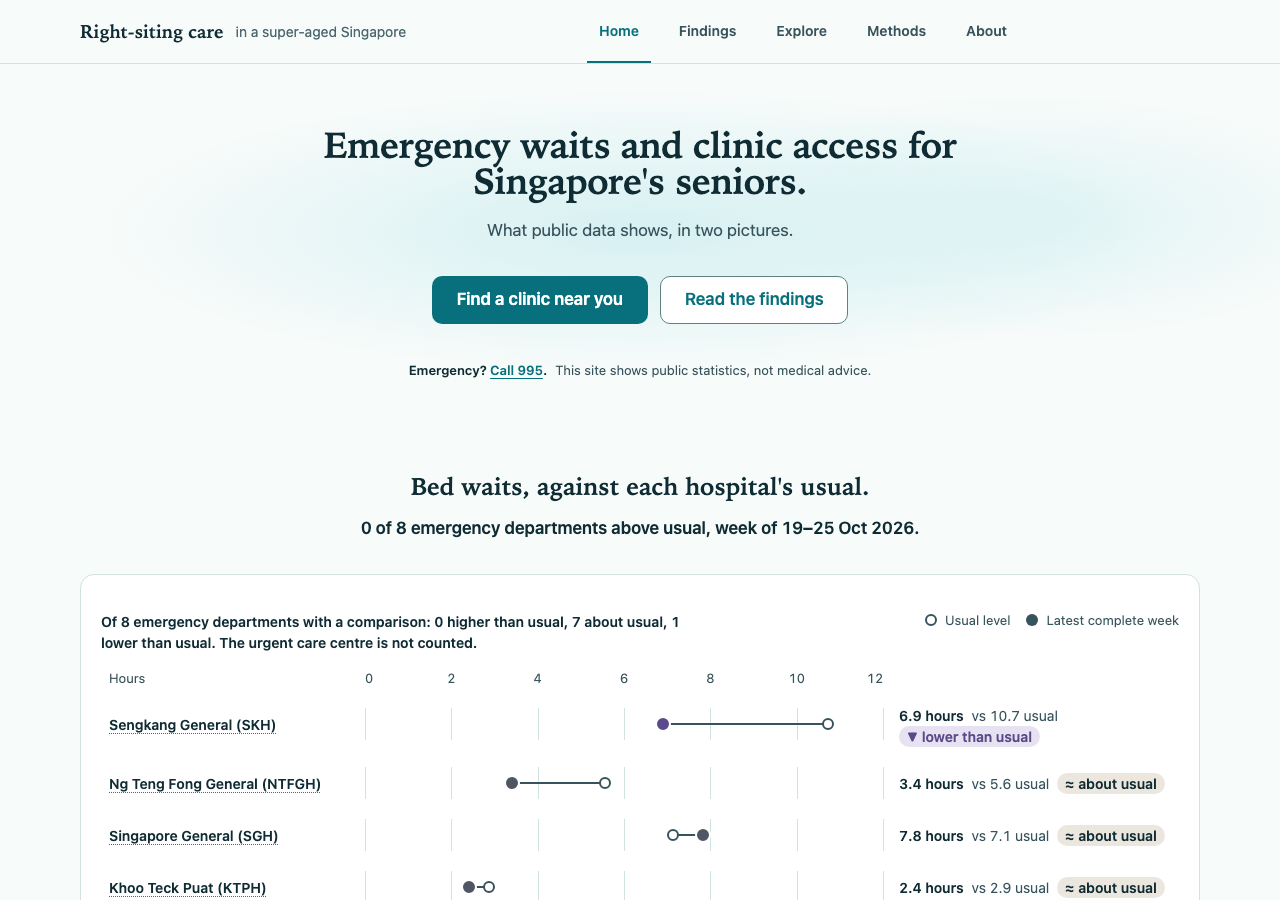
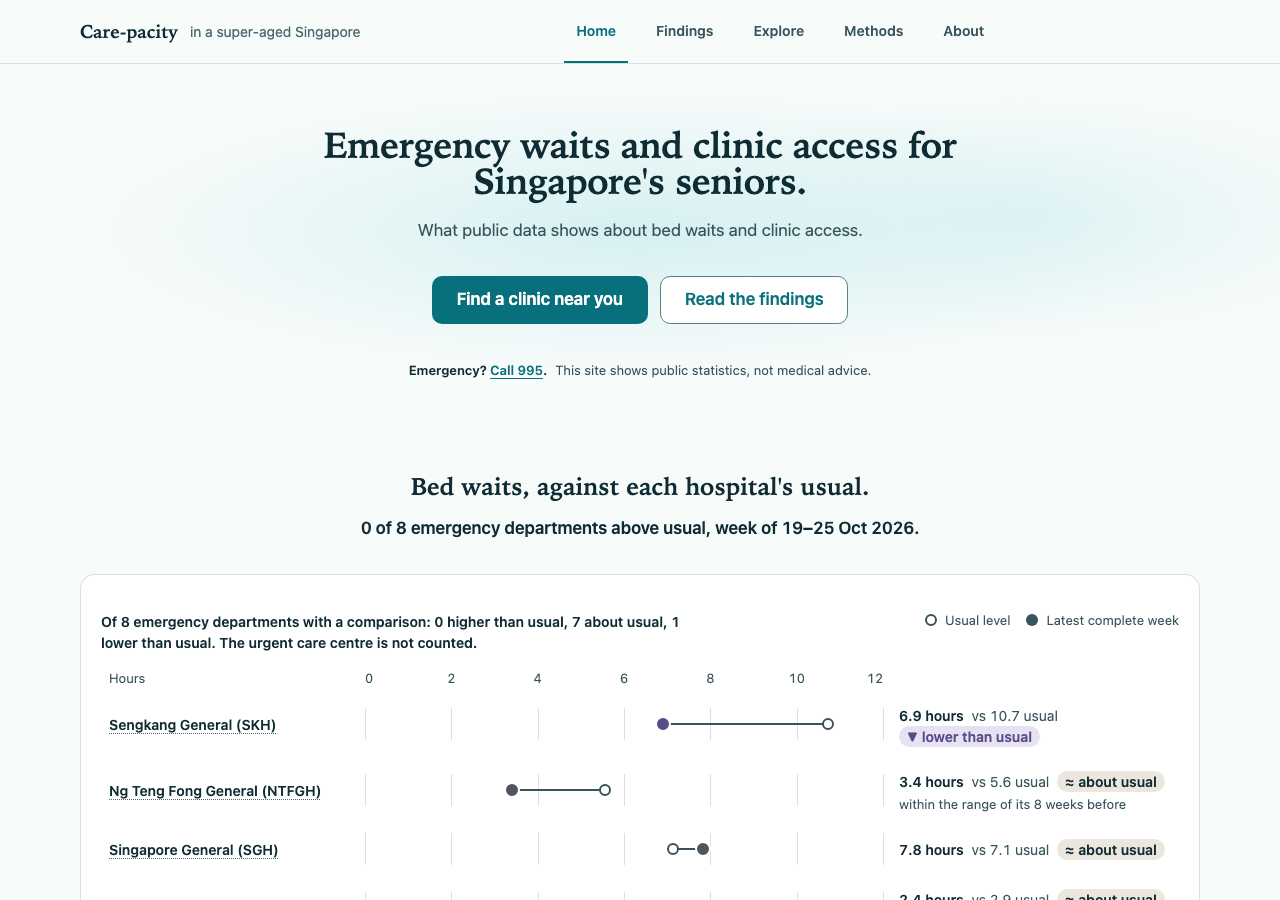
Rename the site to Care-pacity
The visible name only: the repo (sg-care-capacity), the live URLs, the
Render service and the package names are unchanged, so every existing link
keeps working.

- lib/site.ts: name 'Care-pacity', tagline 'in a super-aged Singapore', full
  title 'Care-pacity: emergency waits and clinic access in a super-aged
  Singapore' (header, browser title, share card, summary heading).
- 'Name means <definition>' becomes 'Care-pacity looks at right-siting:
  <definition>' (Findings, Summary): right-siting stays the concept the
  project studies, with its glossary entry.
- Share image top line, API description (openapi.json regenerated), README,
  web/README, CLAUDE.md, audit and case-study titles, README screenshot.
- Tests that pinned the old name updated (site.test, e2e shell, frame,
  summary, findings).

diff --git a/web/app/opengraph-image.tsx b/web/app/opengraph-image.tsx
@@ -21,7 +21,7 @@ export default function OpengraphImage() {
                     padding: "72px 80px", backgroundColor: colors.page, color: colors.ink, fontFamily: "sans-serif",
                     // The site's hero light: one soft glow behind the claim, fading to the page colour well before the edges.
                     backgroundImage: `radial-gradient(ellipse 720px 300px at 42% 46%, ${colors["accent-soft"]}, ${colors.page} 85%)` }}>
-        <div style={{ display: "flex", fontSize: 30, color: colors.accent, fontWeight: 600 }}>A data analytics project by Gabriel Neo</div>
+        <div style={{ display: "flex", fontSize: 30, color: colors.accent, fontWeight: 600 }}>{`${SITE.name} · a data analytics project by Gabriel Neo`}</div>
         <div style={{ display: "flex", flexDirection: "column", gap: 24 }}>
           <div style={{ display: "flex", fontSize: 64, fontWeight: 600, lineHeight: 1.12, maxWidth: 1000 }}>
             Where do Singapore&apos;s hospital waits run longest, and where are clinics for seniors scarce?

diff --git a/web/e2e/findings.spec.ts b/web/e2e/findings.spec.ts
@@ -34,7 +34,7 @@ test.describe("Findings: one band per finding", () => {
     // The big number is Finding 1's, once: the old hero callout is gone.
     await expect(page.getByTestId("hero-number")).toHaveCount(0);
     await expect(page.getByTestId("countup")).toHaveCount(0);
-    expect(await plain(page.getByTestId("site-purpose"))).toBe("Right-siting care means treating people in the most suitable place, "
+    expect(await plain(page.getByTestId("site-purpose"))).toBe("Care-pacity looks at right-siting: treating people in the most suitable place, "
       + "such as a general practitioner (GP) clinic rather than a hospital, when it is safe to do so. "
       + "This site tracks both sides for Singapore's seniors: hospital emergency departments and nearby clinics.");
   });

diff --git a/web/components/story/Sections.tsx b/web/components/story/Sections.tsx
@@ -69,7 +69,7 @@ export function Hero({ insight, meta, count }: { insight: StoryInsight; meta: Me
         on emergency department bed waits and clinic access for seniors, each published only after a fixed statistical check.
       </p>
       <p className="mt-3 max-w-prose text-small text-muted" data-testid="site-purpose">
-        <strong className="font-semibold text-ink">{SITE.name}</strong> means{" "}
+        <strong className="font-semibold text-ink">{SITE.name}</strong> looks at <Glossed text="right-siting" />:{" "}
         <Glossed text={lowerFirst(term("right_siting").plain_definition)} /> <Glossed text={SITE_SCOPE} />
       </p>
       <div className="mt-4 flex flex-wrap items-center gap-x-3 gap-y-2 text-small text-muted">

diff --git a/web/e2e/errors-and-shell.spec.ts b/web/e2e/errors-and-shell.spec.ts
@@ -37,8 +37,8 @@ test.describe("shell", () => {
 
   test("one site name in the title and header, and the privacy note says page views (audit G3, G5)", async ({ page }) => {
     await page.goto("/methodology");
-    await expect(page).toHaveTitle(/· Right-siting care$/);
-    await expect(page.locator("header").first()).toContainText("Right-siting care");
+    await expect(page).toHaveTitle(/· Care-pacity$/);
+    await expect(page.locator("header").first()).toContainText("Care-pacity");
     await expect(page.locator("footer").last()).toContainText("Page views are counted without cookies");
     await expect(page.locator("footer").last()).not.toContainText("Visits are counted");
   });

diff --git a/web/e2e/summary.spec.ts b/web/e2e/summary.spec.ts
@@ -13,7 +13,7 @@ test.describe("One-page summary", () => {
     const gaps = await (await request.get(`${API}/insights?type=access_gap&top=5`)).json() as { data: { entity: string }[] };
 
     await page.goto("/summary");
-    await expect(page.getByRole("heading", { level: 1 })).toHaveText("Right-siting care in a super-aged Singapore");
+    await expect(page.getByRole("heading", { level: 1 })).toHaveText("Care-pacity: emergency waits and clinic access in a super-aged Singapore");
     await expect(page.getByTestId("summary-release")).toContainText(`weekly data release ${headline.meta.snapshot_id}`);
 
     const findings = page.getByTestId("summary-finding");

diff --git a/web/e2e/frame.spec.ts b/web/e2e/frame.spec.ts
@@ -20,7 +20,7 @@ test.describe("header", () => {
     expect(box.height).toBe(wide(page) ? 64 : 56);
     const css = await header.evaluate((el) => { const s = getComputedStyle(el); return { bg: s.backgroundColor, border: s.borderBottomWidth }; });
     expect(css).toEqual({ bg: "rgb(247, 251, 250)", border: "1px" });
-    await expect(page.getByTestId("wordmark")).toContainText("Right-siting care");
+    await expect(page.getByTestId("wordmark")).toContainText("Care-pacity");
     expect(await page.getByTestId("wordmark").locator(".font-serif").evaluate((el) => getComputedStyle(el).fontSize)).toBe("18px");
   });
 

diff --git a/web/lib/site.test.ts b/web/lib/site.test.ts
@@ -6,8 +6,9 @@ import { describe, expect, it } from "vitest";
 import { SITE, SITE_TITLE } from "./site";
 
 describe("one site name (audit G3)", () => {
-  it("is \"Right-siting care\", with the tagline \"in a super-aged Singapore\"", () => {
-    expect(SITE_TITLE).toBe("Right-siting care in a super-aged Singapore");
+  it("is \"Care-pacity\", with the tagline \"in a super-aged Singapore\"", () => {
+    expect(SITE.name).toBe("Care-pacity");
+    expect(SITE_TITLE).toBe("Care-pacity: emergency waits and clinic access in a super-aged Singapore");
   });
 
   it("is never typed outside lib/site.ts", () => {

diff --git a/web/lib/site.ts b/web/lib/site.ts
@@ -3,9 +3,9 @@
  * from here; a test fails on the name typed anywhere else (lib/site.test.ts).
  */
 export const SITE = {
-  name: "Right-siting care",
+  name: "Care-pacity",
   tagline: "in a super-aged Singapore",
 } as const;
 
-/** "Right-siting care in a super-aged Singapore": the full title. */
-export const SITE_TITLE = `${SITE.name} ${SITE.tagline}`;
+/** "Care-pacity: emergency waits and clinic access in a super-aged Singapore": the full title (renamed 17 Nov 2026). */
+export const SITE_TITLE = `${SITE.name}: emergency waits and clinic access ${SITE.tagline}`;

diff --git a/web/app/summary/page.tsx b/web/app/summary/page.tsx
@@ -56,7 +56,7 @@ export default async function SummaryPage() {
       </p>
       <h1 className="mt-1 font-semibold tracking-tight text-ink text-h1">{SITE_TITLE}</h1>
       <p className="mt-1 text-muted">
-        {SITE.name} means <Glossed text={lowerFirst(term("right_siting").plain_definition)} /> <Glossed text={SITE_SCOPE} />
+        {SITE.name} looks at <Glossed text="right-siting" />: <Glossed text={lowerFirst(term("right_siting").plain_definition)} /> <Glossed text={SITE_SCOPE} />
       </p>
     </header>
   );

diff --git a/api/sg_health_api/main.py b/api/sg_health_api/main.py
@@ -22,8 +22,8 @@ from .snapshot import load_snapshot
 
 LOG = logging.getLogger(__name__)
 
-DESCRIPTION = """Read-only access to one published, verified snapshot of the *Right-siting care in a
-super-aged Singapore* data: MOH emergency department bed waits and attendances, CHAS/CDMP clinic
+DESCRIPTION = """Read-only access to one published, verified snapshot of the *Care-pacity* data
+(emergency waits and clinic access in a super-aged Singapore): MOH emergency department bed waits and attendances, CHAS/CDMP clinic
 access for residents aged 65+ by planning area, and NUHS ED wait estimates.
 
 Every response is `{data, meta}`. `meta.as_of` says when the figures were current; `meta.sources`,

diff --git a/docs/audit_report.md b/docs/audit_report.md
@@ -1,4 +1,4 @@
-# Data accuracy audit: Right-siting care in a super-aged Singapore
+# Data accuracy audit: Care-pacity
 
 **Date:** 2026-11-08
 **Auditor note:** independent; implementation not read. Every figure below was recomputed with the auditor's own Python (stdlib, duckdb, pandas, pyarrow, openpyxl) from the raw files and staging tables. No pipeline, API or web source code, SQL, tests or other project docs were opened. The only project doc read was `docs/data_dictionary.md`. The case study was read through the website.

diff --git a/CLAUDE.md b/CLAUDE.md
@@ -2,7 +2,7 @@
 
 ## Project
 
-**Right-siting care in a super-aged Singapore** is a healthcare analytics portfolio project. It tracks:
+**Care-pacity** (emergency waits and clinic access in a super-aged Singapore; repo `sg-care-capacity`) is a healthcare analytics portfolio project about right-siting care. It tracks:
 
 - **ED bed waits and attendances**: MOH published statistics.
 - **Clinic access for residents aged 65+**: CHAS and CDMP clinic locations against SingStat resident population by planning area.
